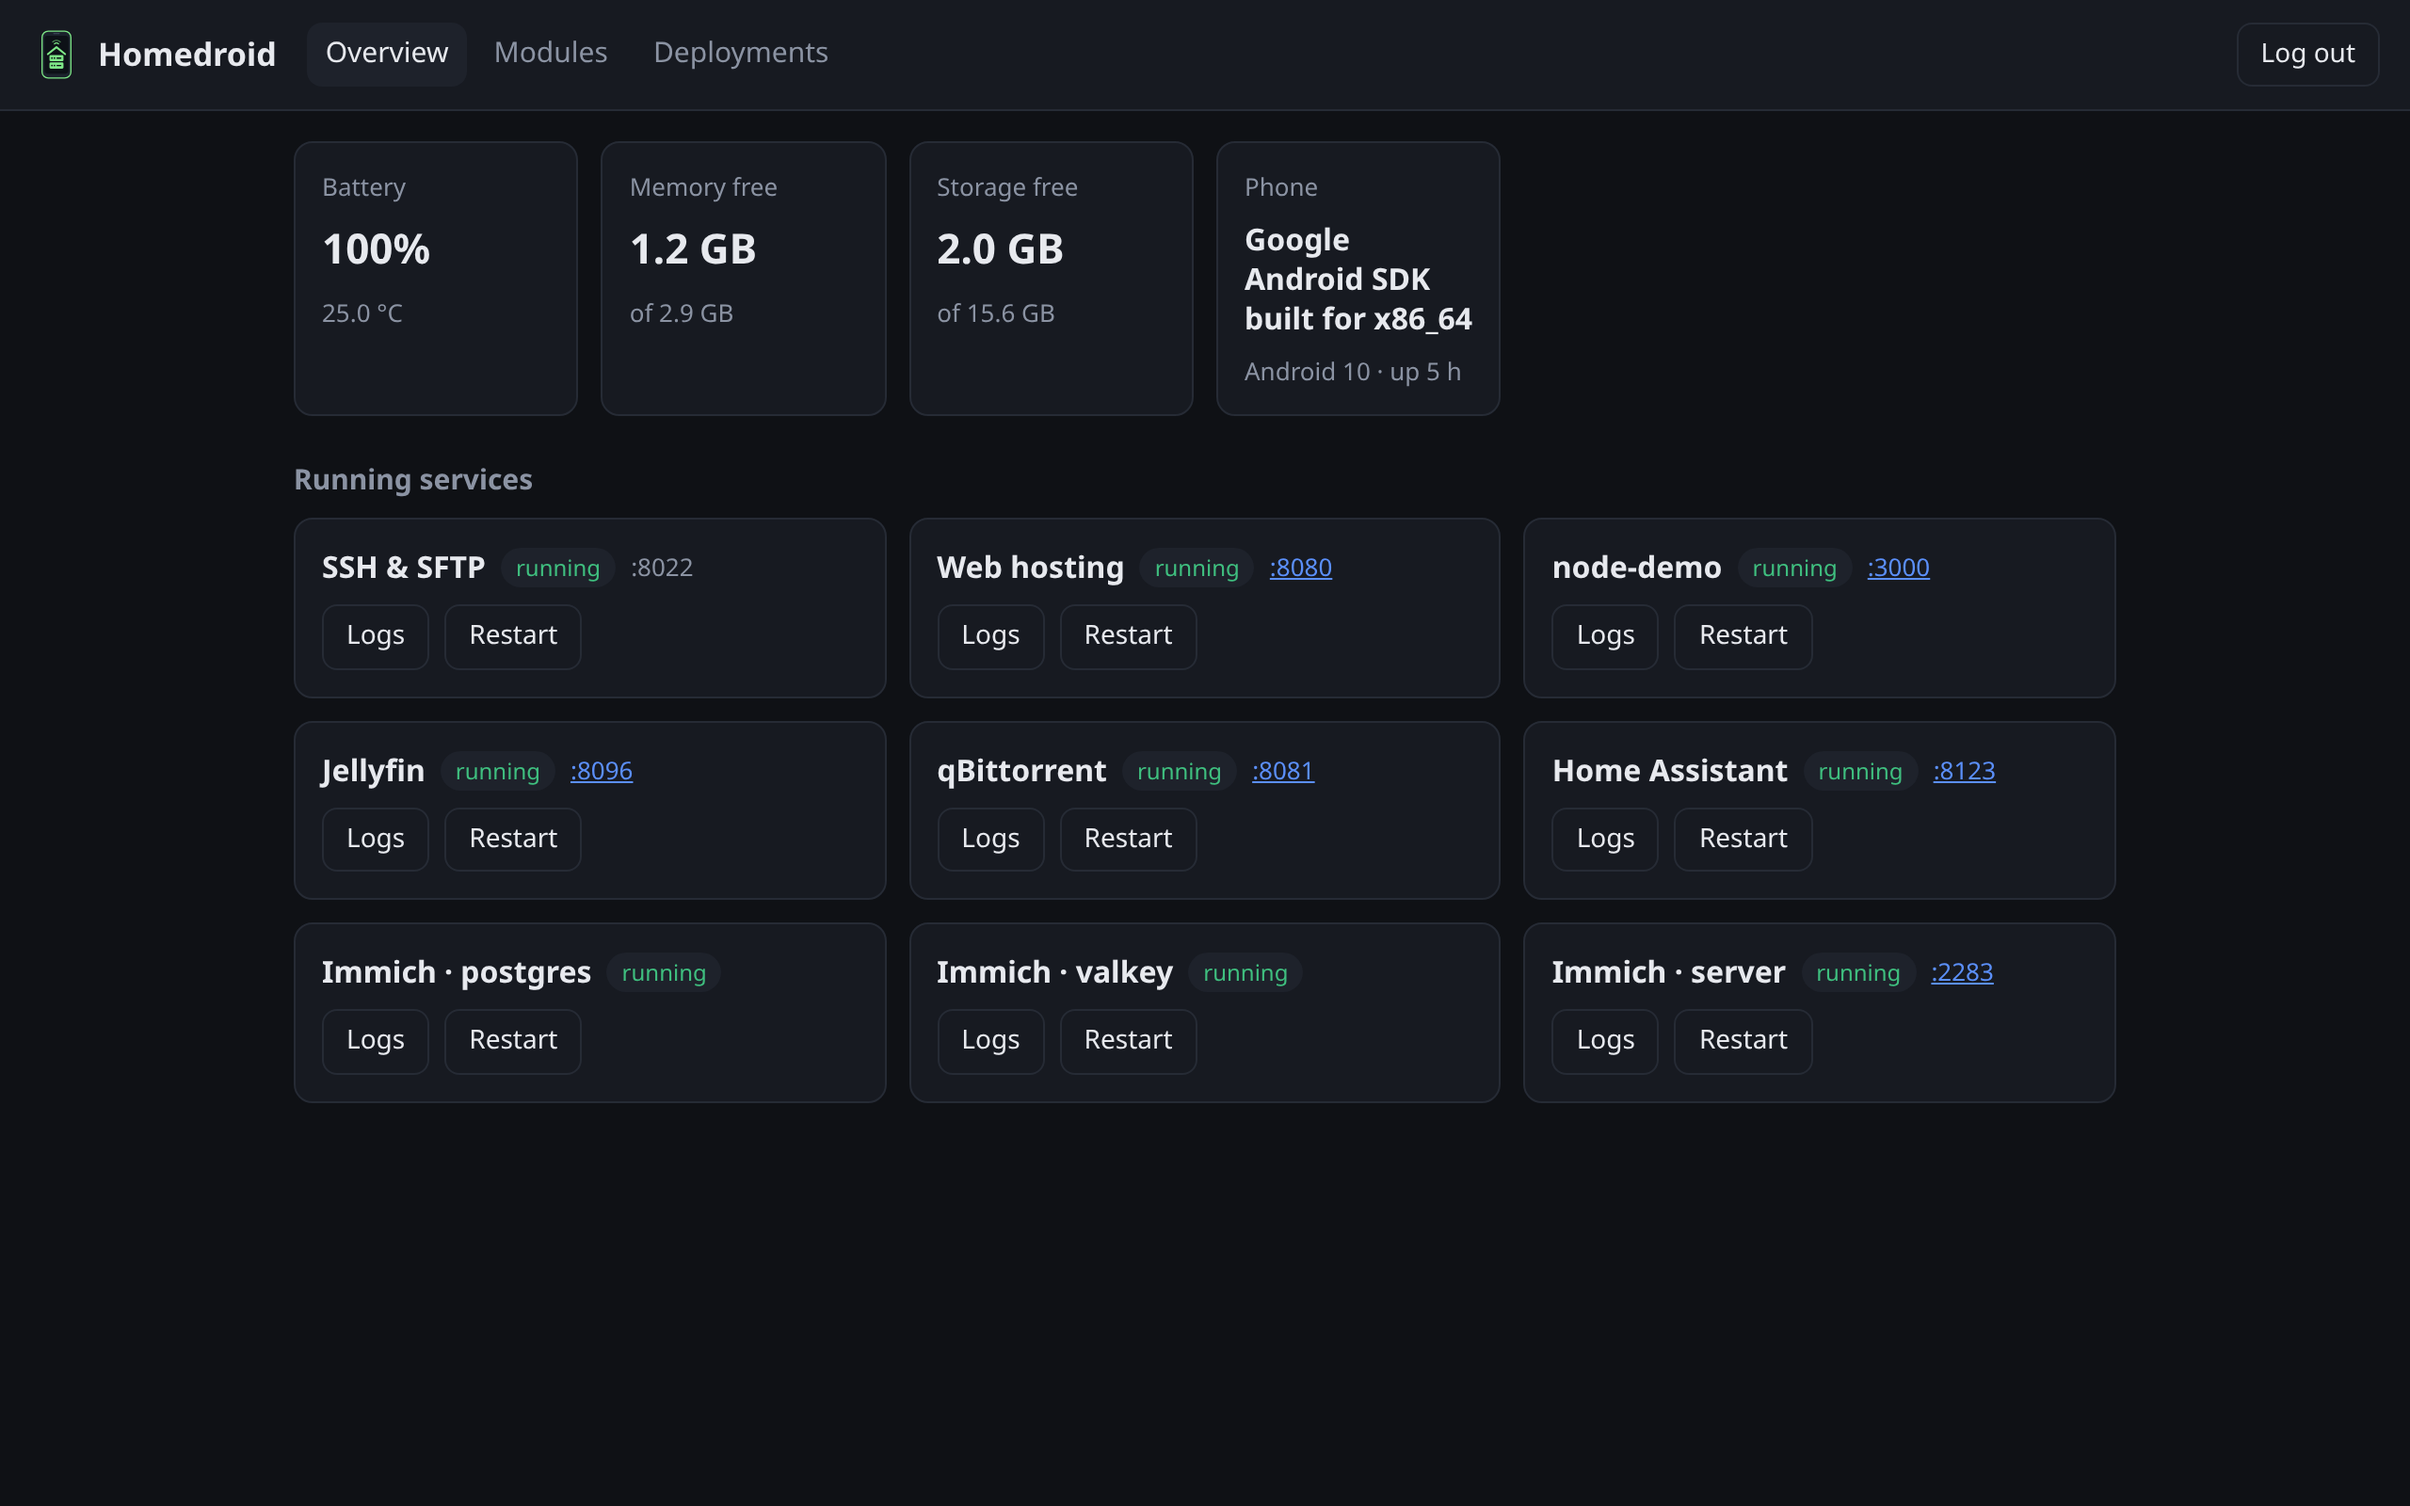
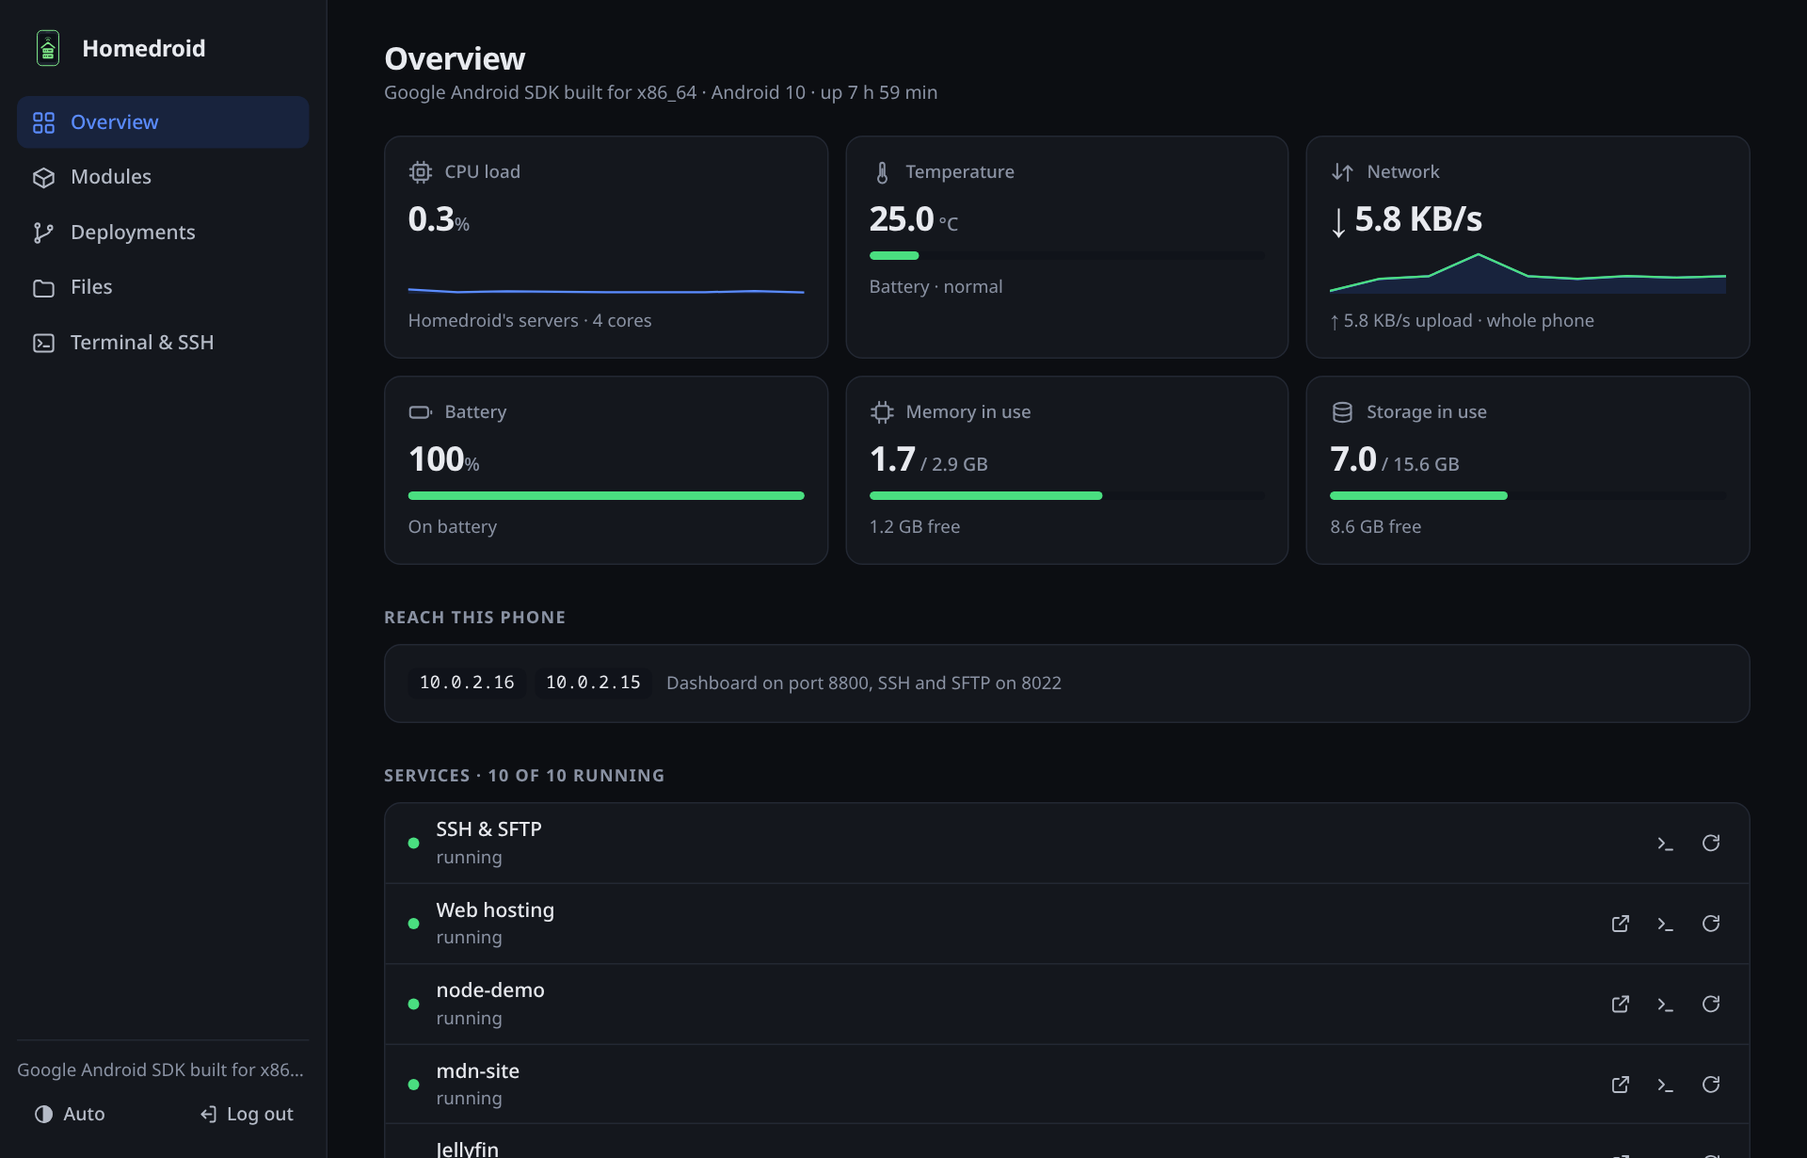
Dashboard: phone layout fixes; new screenshots

diff --git a/app/src/main/assets/dashboard.html b/app/src/main/assets/dashboard.html
@@ -147,10 +147,11 @@ pre { margin: 0; background: var(--code); border-radius: var(--r-sm); padding: 1
 @keyframes spin { to { transform: rotate(360deg); } }
 
 /* Overview */
-.stats { display: grid; gap: 12px; grid-template-columns: repeat(auto-fill, minmax(230px, 1fr)); }
+/* At most three per row, so the six cards make two even rows. */
+.stats { display: grid; gap: 12px; grid-template-columns: repeat(auto-fill, minmax(max(150px, calc((100% - 24px) / 3)), 1fr)); }
 .stat { padding: 16px; display: flex; flex-direction: column; gap: 10px; }
 .stat .k { display: flex; align-items: center; gap: 8px; color: var(--muted); font-size: 12.5px; font-weight: 550; }
-.stat .v { font-size: 24px; font-weight: 650; letter-spacing: -.02em; line-height: 1.1; font-variant-numeric: tabular-nums; }
+.stat .v { font-size: clamp(19px, 5vw, 24px); font-weight: 650; letter-spacing: -.02em; line-height: 1.1; font-variant-numeric: tabular-nums; }
 .stat .v small { font-size: 13px; font-weight: 500; color: var(--muted); letter-spacing: 0; }
 .stat .s { font-size: 12.5px; color: var(--muted); }
 .reach { display: flex; flex-wrap: wrap; gap: 6px; align-items: center; }
@@ -177,8 +178,8 @@ pre { margin: 0; background: var(--code); border-radius: var(--r-sm); padding: 1
 .hist { max-height: 360px; overflow: auto; }
 .hist .item { min-height: 0; padding: 6px 16px; gap: 10px; }
 .hist .item .mono { white-space: pre-wrap; word-break: break-all; }
-.two { display: grid; gap: 12px; grid-template-columns: repeat(auto-fit, minmax(380px, 1fr)); align-items: start; }
-@media (max-width: 480px) { .two { grid-template-columns: 1fr; } }
+.two { display: grid; gap: 12px; grid-template-columns: repeat(auto-fit, minmax(min(380px, 100%), 1fr)); align-items: start; }
+.two > * { min-width: 0; }
 
 /* Modules and deployments */
 .mod { display: flex; flex-direction: column; gap: 10px; padding: 16px; }
@@ -189,7 +190,8 @@ pre { margin: 0; background: var(--code); border-radius: var(--r-sm); padding: 1
 .chips { display: flex; flex-wrap: wrap; gap: 6px; }
 .chip { display: inline-flex; align-items: center; gap: 5px; font-size: 12px; color: var(--muted); background: var(--surface-2); border: 1px solid var(--line); border-radius: 6px; padding: 1px 7px; max-width: 100%; }
 .chip svg.i { width: 13px; height: 13px; }
-.mod-foot { display: flex; align-items: center; gap: 8px; margin-top: auto; padding-top: 4px; min-height: 34px; }
+.mod-foot { display: flex; align-items: center; flex-wrap: wrap; gap: 6px; margin-top: auto; padding-top: 4px; min-height: 34px; }
+.mod-foot .btn.ghost:not(.icon) { padding: 0 8px; }
 .job { margin-bottom: 20px; overflow: hidden; }
 .job-head { display: flex; align-items: center; gap: 10px; padding: 12px 12px 12px 16px; }
 .job pre { border-radius: 0; max-height: 260px; border-top: 1px solid var(--line); }
@@ -230,6 +232,9 @@ pre { margin: 0; background: var(--code); border-radius: var(--r-sm); padding: 1
 .tray .up .meter { grid-column: 1 / -1; height: 4px; }
 @media (max-width: 640px) {
   .ftable .c-date, .ftable .c-size, .ftable .acts .wide { display: none; }
+  /* Fixed layout gets confused by hidden columns; auto plus max-width: 0 still ellipsizes names. */
+  .ftable { table-layout: auto; }
+  .ftable td:first-child { width: 100%; max-width: 0; }
   .ftable .c-acts { width: 46px; }
   .ftable td { padding: 6px 8px 6px 12px; }
   .toolbar .lbl { display: none; }
@@ -655,10 +660,11 @@ function stat(ic, k, v, sub, pct, cls, graph) {
 const hist = {cpu: [], rx: [], tx: []};
 function push(key, v) { const a = hist[key]; a.push(v); if (a.length > 36) a.shift(); }
 function spark(series, max, cls = ['']) {
-  const n = 35, top = Math.max(max, ...series.flat(), 1e-9);
-  const pts = s => s.map((v, i) => `${(i + n + 1 - s.length) * 100 / n},${30 - 28 * v / top}`).join(' L');
+  const top = Math.max(max, ...series.flat(), 1e-9);
+  const pts = s => s.map((v, i) => `${(i * 100 / (s.length - 1)).toFixed(2)},${(30 - 28 * v / top).toFixed(2)}`).join(' L');
   return `<svg class="spark" viewBox="0 0 100 30" preserveAspectRatio="none">${series.map((s, i) => s.length > 1
-    ? (i === 0 ? `<path class="area" d="M${pts(s)} L100,30 L${(n + 1 - s.length) * 100 / n},30Z"/>` : '') + `<path class="${cls[i] || ''}" d="M${pts(s)}"/>` : '').join('')}</svg>`;
+    ? (i === 0 ? `<path class="area" d="M${pts(s)} L100,30 L0,30Z"/>` : '') + `<path class="${cls[i] || ''}" d="M${pts(s)}"/>` : '').join('')
+    || '<path d="M0,29 L100,29" style="opacity:.3"/>'}</svg>`;
 }
 const rate = b => b < 1024 ? b + ' B/s' : b < 1048576 ? (b / 1024).toFixed(b < 10240 ? 1 : 0) + ' KB/s' : (b / 1048576).toFixed(1) + ' MB/s';
 async function renderOverview() {
@@ -672,7 +678,7 @@ async function renderOverview() {
   push('cpu', mt.cpu); push('rx', mt.rxBps); push('tx', mt.txBps);
   const hot = s.hot || ['hot', 'throttling', 'critical'].includes(mt.thermal), temp = mt.cpuTemp ?? s.batteryTemp;
   setHTML($('#ovStats'), [
-    stat('cpu', 'CPU load', `${mt.cpu.toFixed(mt.cpu < 10 ? 1 : 0)}<small>%</small>`, `Homedroid's processes, of ${mt.cores} cores`, 0, '', spark([hist.cpu], 10)),
+    stat('cpu', 'CPU load', `${mt.cpu.toFixed(mt.cpu < 10 ? 1 : 0)}<small>%</small>`, `Homedroid's servers · ${mt.cores} cores`, 0, '', spark([hist.cpu], 10)),
     stat('temp', 'Temperature', `${temp.toFixed(1)}<small> °C</small>`,
       `${mt.cpuTemp != null ? `CPU · battery ${s.batteryTemp.toFixed(1)} °C` : 'Battery'} · ${hot ? `<b style="color:var(--bad)">${esc(mt.thermal === 'normal' ? 'too hot' : mt.thermal)}</b>` : esc(mt.thermal)}`,
       Math.min(100, Math.max(0, (temp - 20) * 2.5)), hot ? 'bad' : temp >= 40 ? 'warn' : 'ok'),
@@ -728,9 +734,8 @@ function modCard(x) {
     <div class="mod-foot">
       ${!x.installed ? `<button class="btn primary sm" data-act="install" data-id="${esc(x.id)}" ${busy ? 'disabled' : ''}>${icon('download')}Install</button>` : ''}
       ${openable ? `<a class="btn sm" href="${appUrl(x.port)}" target="_blank" rel="noopener">${icon('external')}Open</a>` : ''}
-      <div class="grow"></div>
       ${x.kind === 'app' && x.installed ? `
-        <button class="btn ghost sm" data-act="clearMod" data-id="${esc(x.id)}" ${busy ? 'disabled' : ''}>${icon('eraser')}Clear data</button>
+        <button class="btn ghost sm" style="margin-left:auto" data-act="clearMod" data-id="${esc(x.id)}" ${busy ? 'disabled' : ''}>Clear data</button>
         <button class="btn ghost sm danger" data-act="removeMod" data-id="${esc(x.id)}" ${busy ? 'disabled' : ''}>${icon('trash')}Remove</button>` : ''}
     </div></div>`;
 }

diff --git a/README.md b/README.md
@@ -105,6 +105,11 @@ with the tunnel token.
 
 `http://<phone-ip>:8800`, on a computer or a phone:
 
+<p align="center">
+  <img src="docs/screenshots/dashboard-files-dark.png" width="410" alt="The Files tab: browse, upload and download">
+  <img src="docs/screenshots/dashboard-terminal-dark.png" width="410" alt="The Terminal &amp; SSH tab: web terminal, SSH keys, session log and history">
+</p>
+
 - **Overview:** CPU load, temperature, upload and download speed, battery, memory and storage,
   and every service with its logs and a restart button.
 - **Modules:** install, remove and turn modules on or off. **Clear data** resets an app like a
